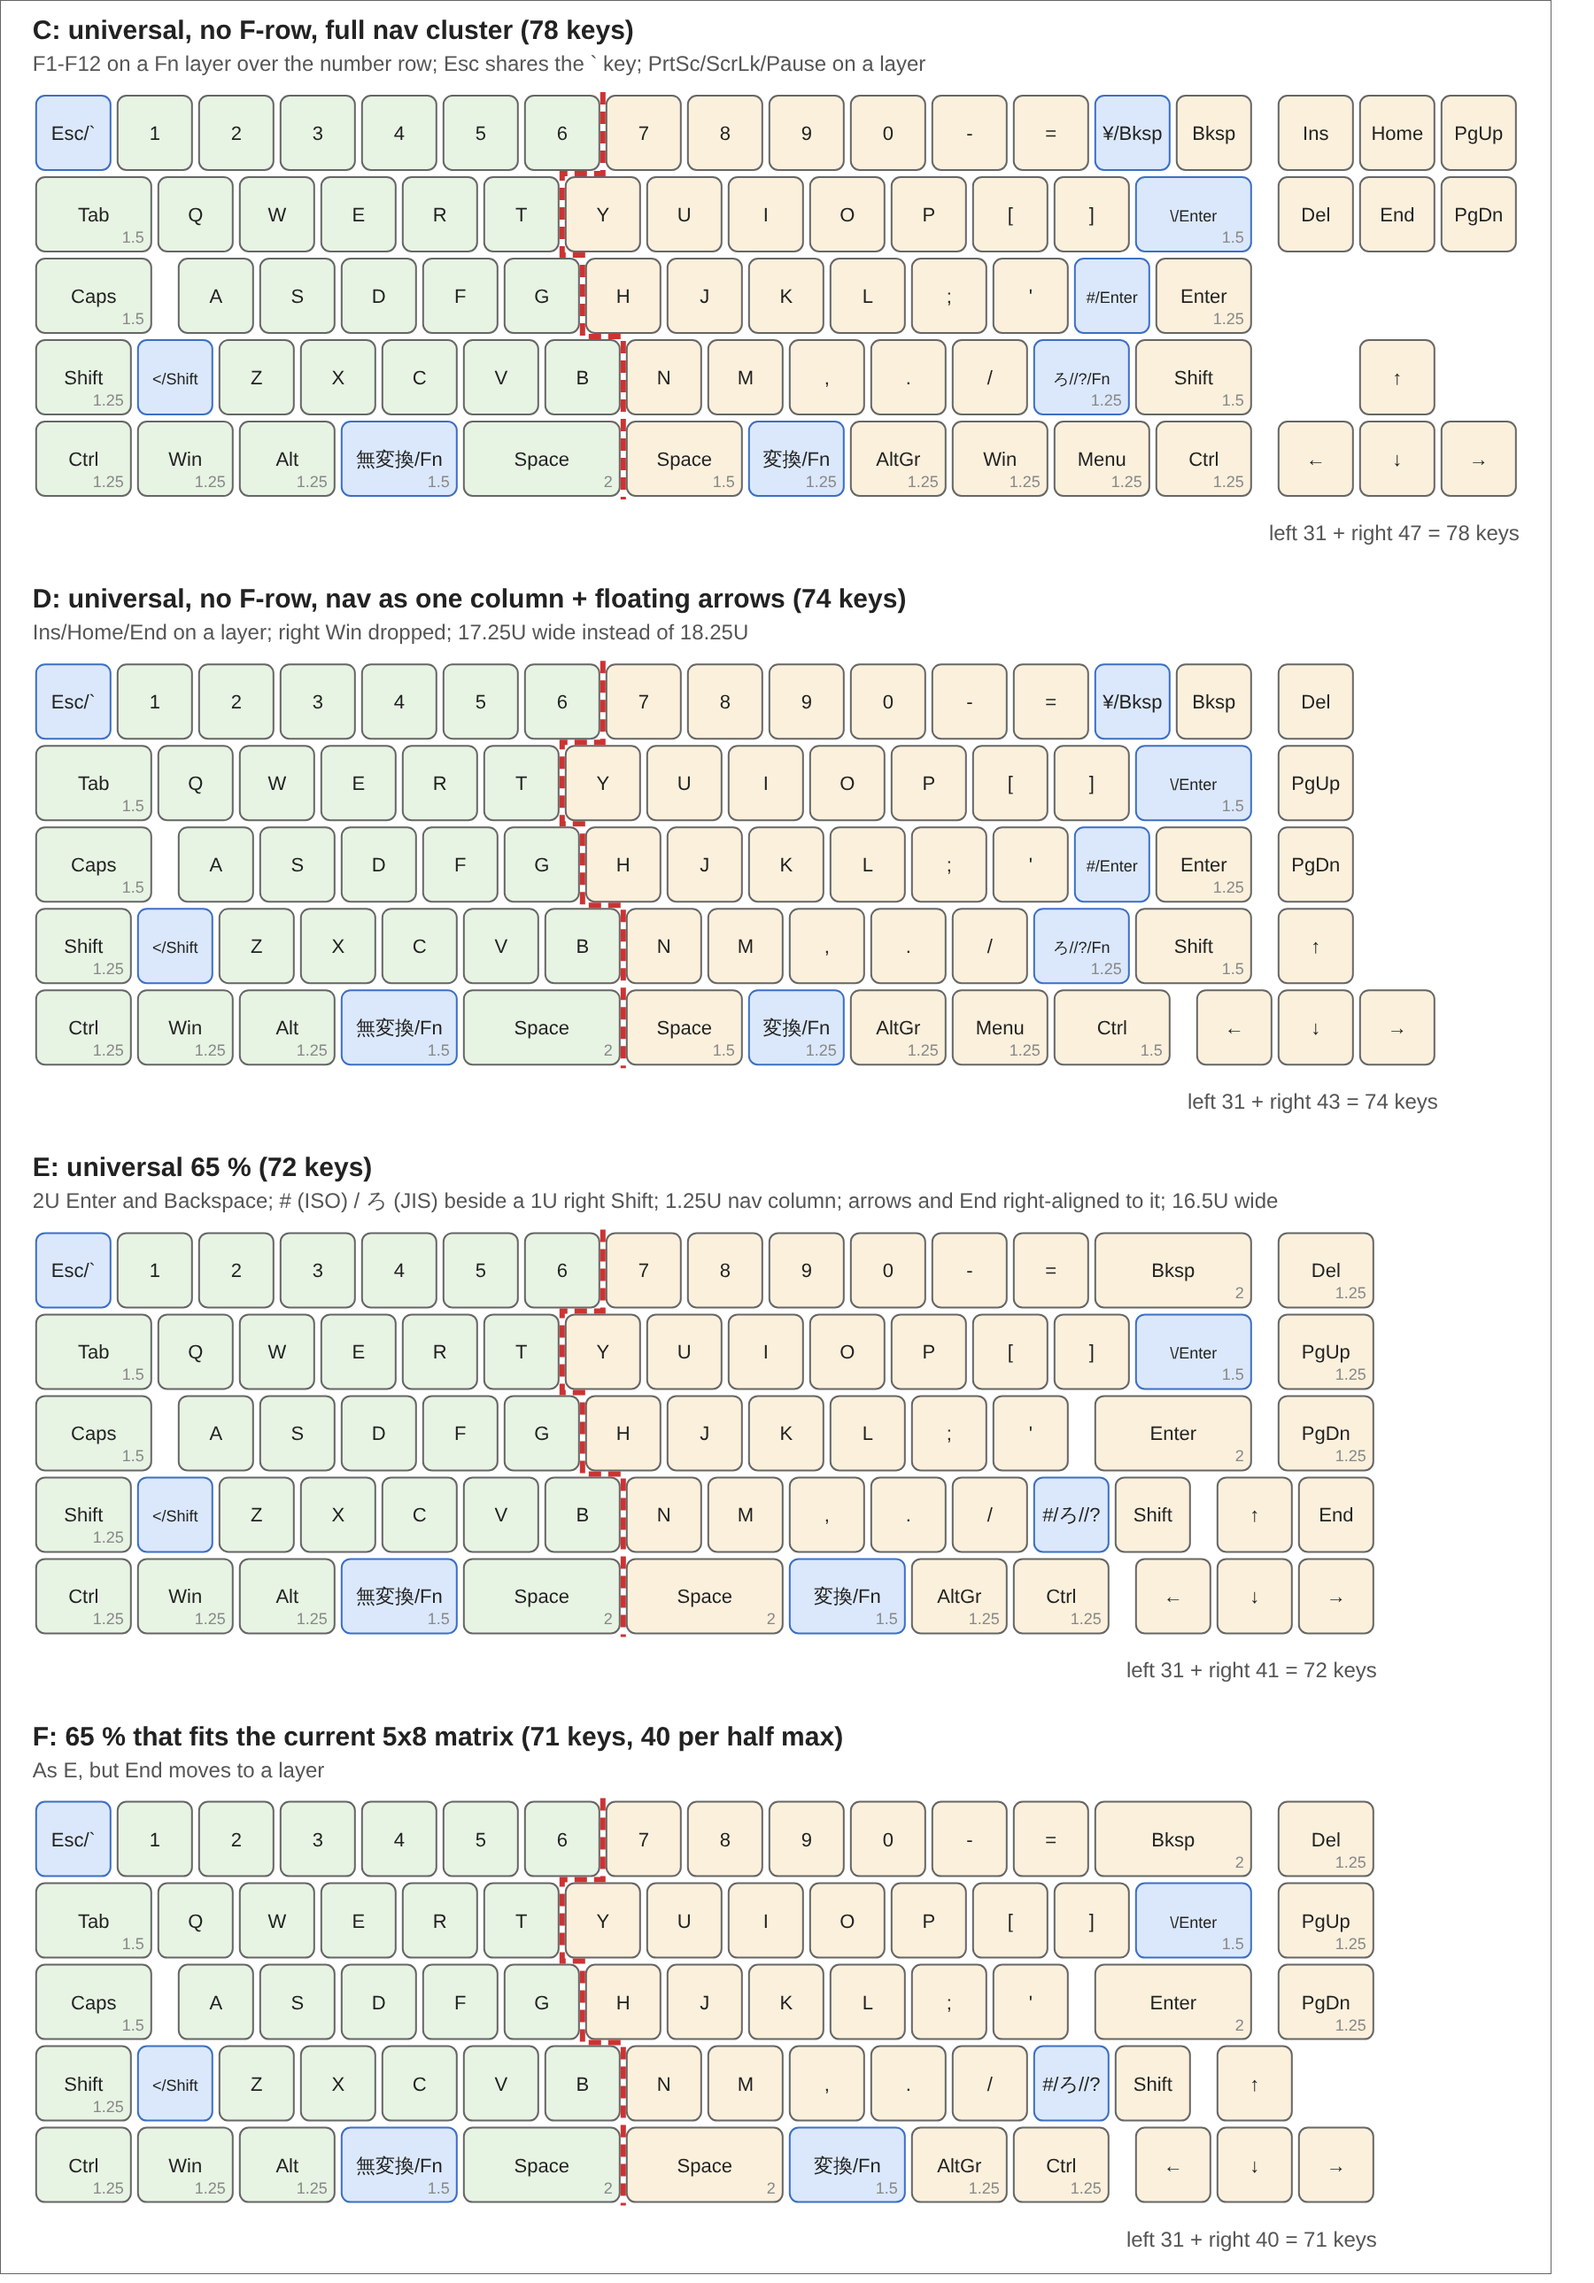
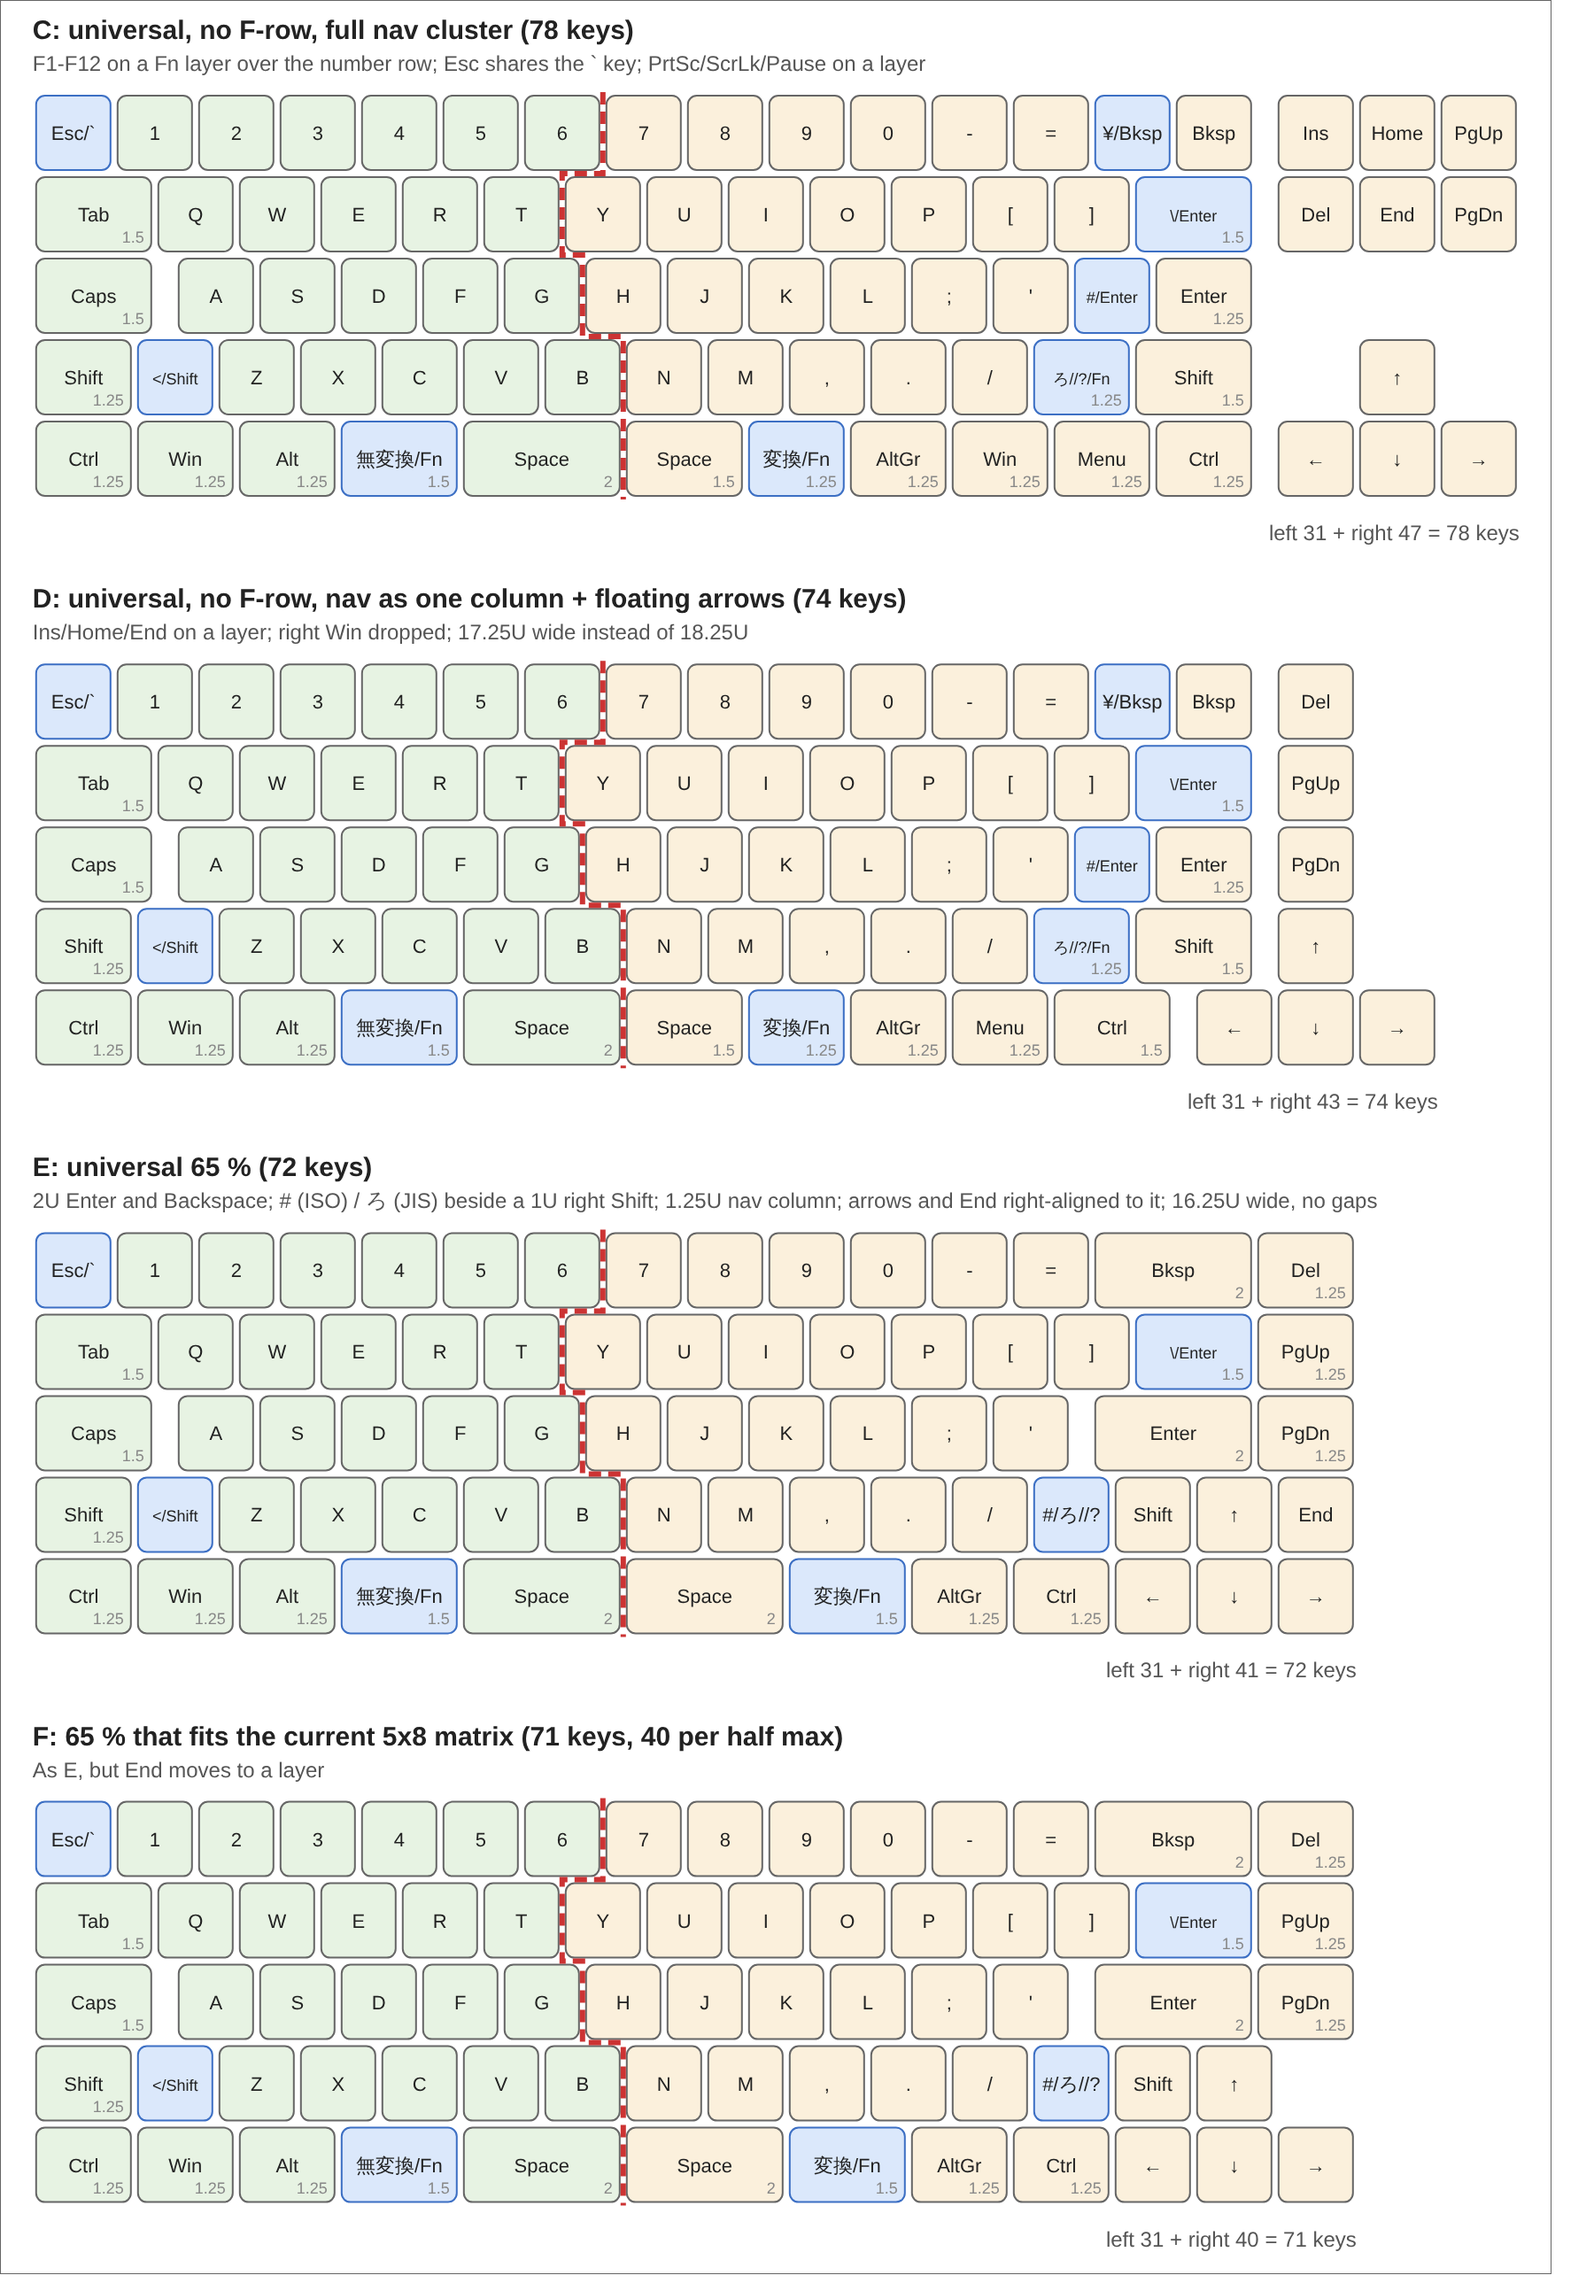
Layout study: E without gaps right of the main block (16.25U)
The 1.25U nav column, the arrows and End move left by 0.25U and touch the
main block, right Shift and right Ctrl.

Claude-Session: https://claude.ai/code/session_01U989dwa8qfqDTeXimD42CV

Changed region(s): [[0.6844, 0.5275, 0.8711, 0.7448], [0.6844, 0.7758, 0.8711, 0.993]]

diff --git a/docs/layout_study/tkl_layouts.py b/docs/layout_study/tkl_layouts.py
@@ -105,17 +105,17 @@ B_ROWS = {k: v for k, v in LAYOUTS[3]["rows"].items() if k != "f"}
 B_ROWS["n"] = [(1, "Esc|`")] + NUM[1:] + [(1, "¥|Bksp"), (1, "Bksp")]
 
 # 65 %: main block plus one nav column = 16U; arrows tucked into shift/bottom rows
-NAVC = [("gap", .25)]  # gap between the main block and the 1.25U nav column
+NAVC = []  # the 1.25U nav column touches the main block
 R65_N = B_ROWS["n"][:13] + [(2, "Bksp")] + NAVC + [(1.25, "Del")]
 R65_T = B_ROWS["t"] + NAVC + [(1.25, "PgUp")]
 R65_C = ([(1.5, "Caps"), ("gap", .25)] + CAPS + [("gap", .25), (2, "Enter")]
          + NAVC + [(1.25, "PgDn")])
 R65_S = ([(1.25, "Shift"), (1, "<|Shift")] + SHIFT + [(1, "#|ろ|/?"), (1, "Shift")]
-         + [("gap", .25), (1, "↑"), (1, "End")])
+         + [(1, "↑"), (1, "End")])
 R65_B = [(1.25, "Ctrl"), (1.25, "Win"), (1.25, "Alt"), (1.5, "無変換|Fn"), (2, "Space"),
-         (2, "Space"), (1.5, "変換|Fn"), (1.25, "AltGr"), (1.25, "Ctrl"), ("gap", .25),
+         (2, "Space"), (1.5, "変換|Fn"), (1.25, "AltGr"), (1.25, "Ctrl"),
          (1, "←"), (1, "↓"), (1, "→")]
-R65_W = {"n": 16.5, "t": 16.5, "c": 16.5, "s": 16.5, "b": 16.5}
+R65_W = {"n": 16.25, "t": 16.25, "c": 16.25, "s": 16.25, "b": 16.25}
 
 COMPACT = [
     {
@@ -140,7 +140,7 @@ COMPACT = [
     },
     {
         "name": "E: universal 65 % (72 keys)",
-        "note": "2U Enter and Backspace; # (ISO) / ろ (JIS) beside a 1U right Shift; 1.25U nav column; arrows and End right-aligned to it; 16.5U wide",
+        "note": "2U Enter and Backspace; # (ISO) / ろ (JIS) beside a 1U right Shift; 1.25U nav column; arrows and End right-aligned to it; 16.25U wide, no gaps",
         "rows": {"n": R65_N, "t": R65_T, "c": R65_C, "s": R65_S, "b": R65_B},
         "nav": [], "main_w": R65_W,
         "split": True,
